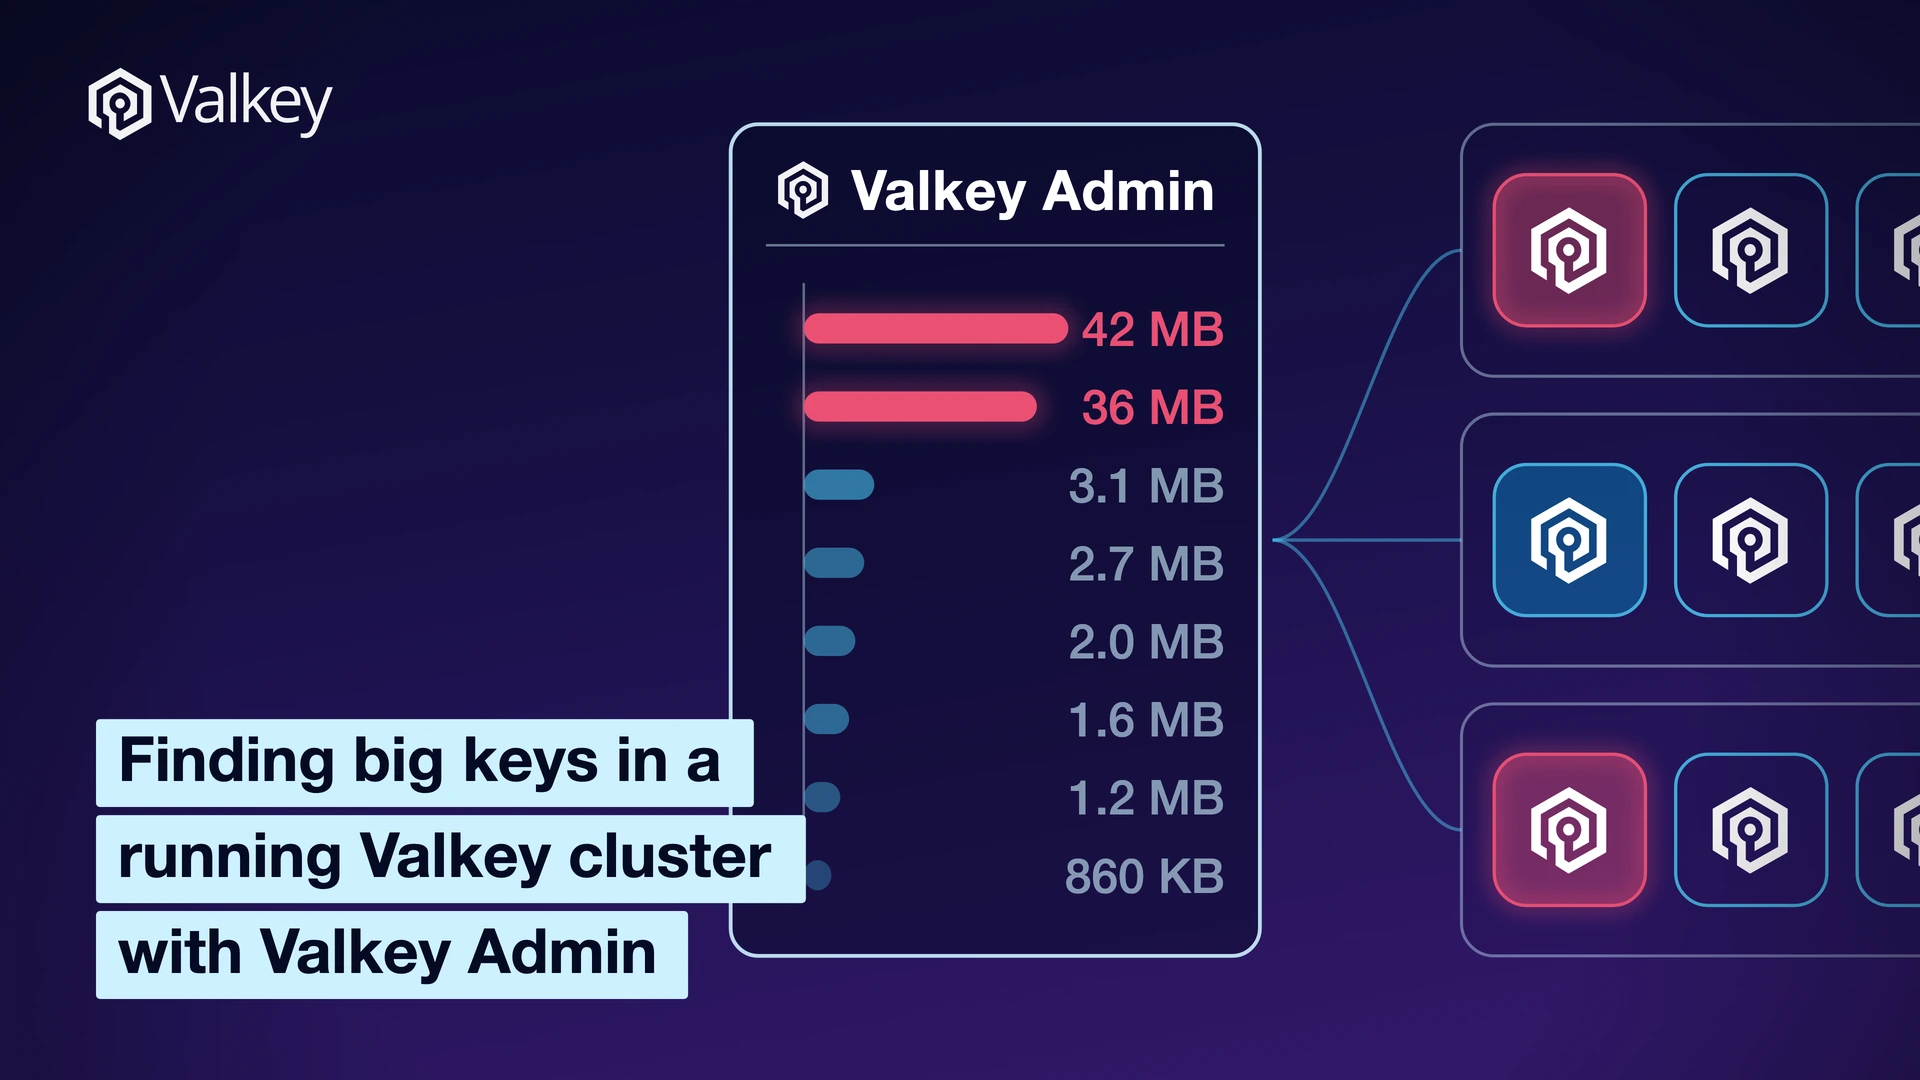
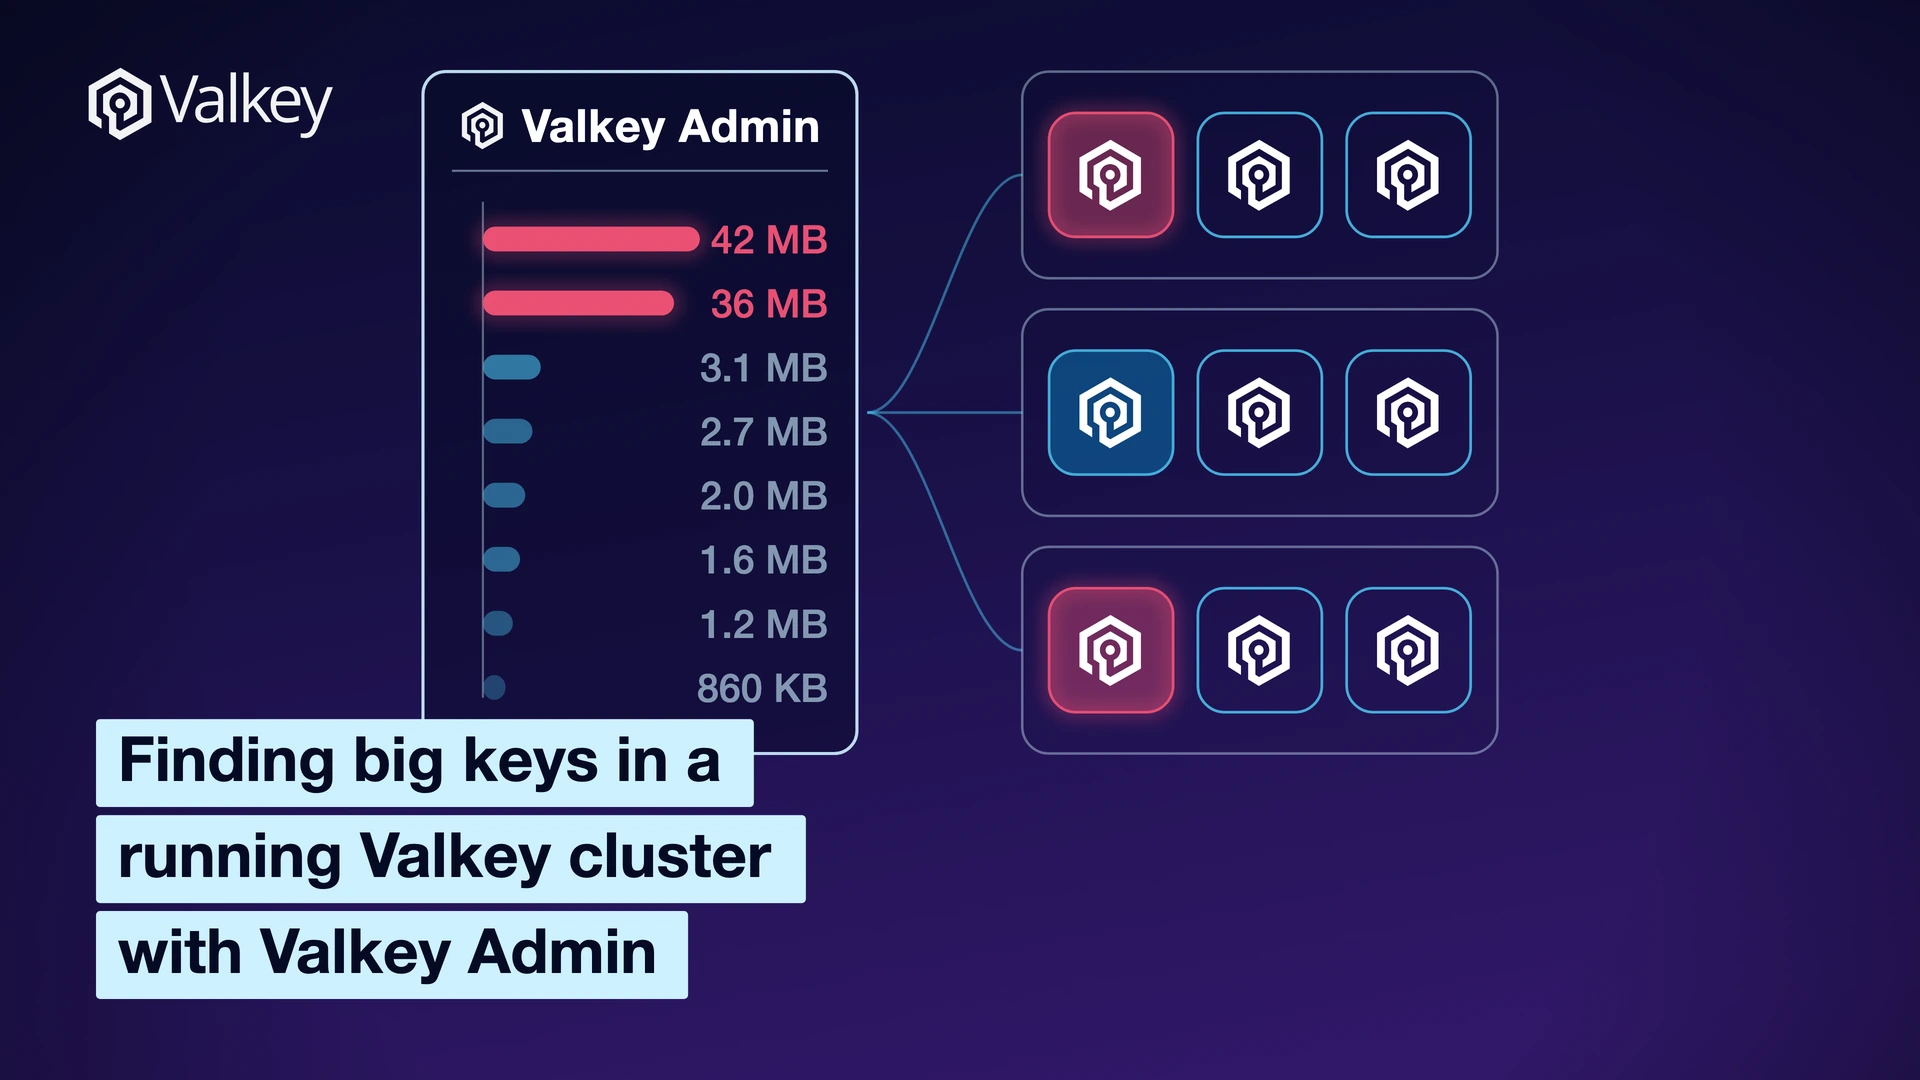
Settle the card on A, centred and scaled clear of the lockup
Three fixed things set where the subject goes, in the framed box x 198..1722,
y 111..969: the corner lockup at x 262..469, y 158..228; the caption blocks at
x 274..838, y 682..904; and the motif's box at x 440..1480, y 210..870 before
scaling.

Horizontally, the parent theme sits centred and that puts the panel's top left
corner just inside the lockup. 0.82 pulls it clear by 65 units and leaves the
margins even at 336 a side, so nothing runs off an edge, which is what A's
clipped column of server hexagons was.

Vertically it is set by the last row of the chart rather than by centring. The
first attempt scaled to 0.88 and the caption crossed far enough up to cut the
1.2 MB label in half and leave KB orphaned. The bottom size label's baseline is
at 820 before scaling, so the motif is placed to put it at 668, thirteen units
above the caption's top edge. The panel's rounded bottom still runs 27 units
under the blocks, which keeps the title tied to the artwork without any of the
chart disappearing behind it.

b through e are retired.

This was generated by AI but verified, with love, by a human.

diff --git a/README.md b/README.md
@@ -48,11 +48,7 @@ can't drift, and regenerating is a no-op diff.
 | `blackhole-halo` | The same model tilted, the ring opened into a broad white-to-red halo | Same |
 | `blackhole-beamed` | The same model with Doppler beaming left in, so one side blazes | Same, when the physics is the point |
 | `planet-ring` | A wireframe Valkey globe ringed by article cards, one data structure each | Planet Valkey, community blog roundups, the wider ecosystem |
-| `key-size-card-a` | Motif whole down the frame, shards off the right edge | Card layout candidate for the big-keys post |
-| `key-size-card-b` | Motif lifted, full width kept, tops off the top edge | Card layout candidate for the big-keys post |
-| `key-size-card-c` | Motif scaled down, only the last server column off the right | Card layout candidate for the big-keys post |
-| `key-size-card-d` | Motif dropped, bottoms off the bottom edge | Card layout candidate for the big-keys post |
-| `key-size-card-e` | Motif scaled up and dropped, off both bottom and right | Card layout candidate for the big-keys post |
+| `key-size-card-a` | The key-size ranking and shards centred and scaled to clear the corner lockup, title overlapping the panel | The big-keys post; the reference card layout |
 | `k8s-desired-count` | Six declared slots, four filled, one rising into place, one still empty | Replica counts, scaling to a desired state, reconciliation |
 | `limits-tight-envelope` | A small box packed edge to edge, pushing out, inside far larger outlines | Constrained hardware, small instances, resource ceilings |
 | `limits-gauge-pinned` | A gauge sweeping into gold and stopping short of a red end zone | Running right up to a limit, headroom, saturation |
@@ -133,10 +129,14 @@ There is no frame around the subject. A thin rectangle was tried and looked wron
 round: closed, its far edge showed straight through the translucent artwork; open on one
 side, it read as a stray bracket.
 
-The subject cannot both fill the height and clear the caption, because the Valkey Admin
-panel alone is 660 units tall and the caption takes the lower left. Clearing it means moving
-right, and the motif then runs off an edge. Which edge is the only thing the five candidates
-differ on, and it is a taste call rather than a correctness one.
+Three fixed things set where the subject goes, all in the framed box x 198..1722,
+y 111..969: the corner lockup at x 262..469, y 158..228; the caption blocks at x 274..838,
+y 682..904; and the motif's own box at x 440..1480, y 210..870 before scaling.
+
+`key-size-distribution` sits centred, which puts the panel's top left corner just inside the
+lockup. Scaling to 0.88 pulls it clear and keeps the left and right margins even at 304 a
+side, so nothing runs off an edge. The caption still crosses the panel's lower left, which is
+what ties the title to the artwork; clearing it completely leaves a dead gap between them.
 
 ## The release number
 
